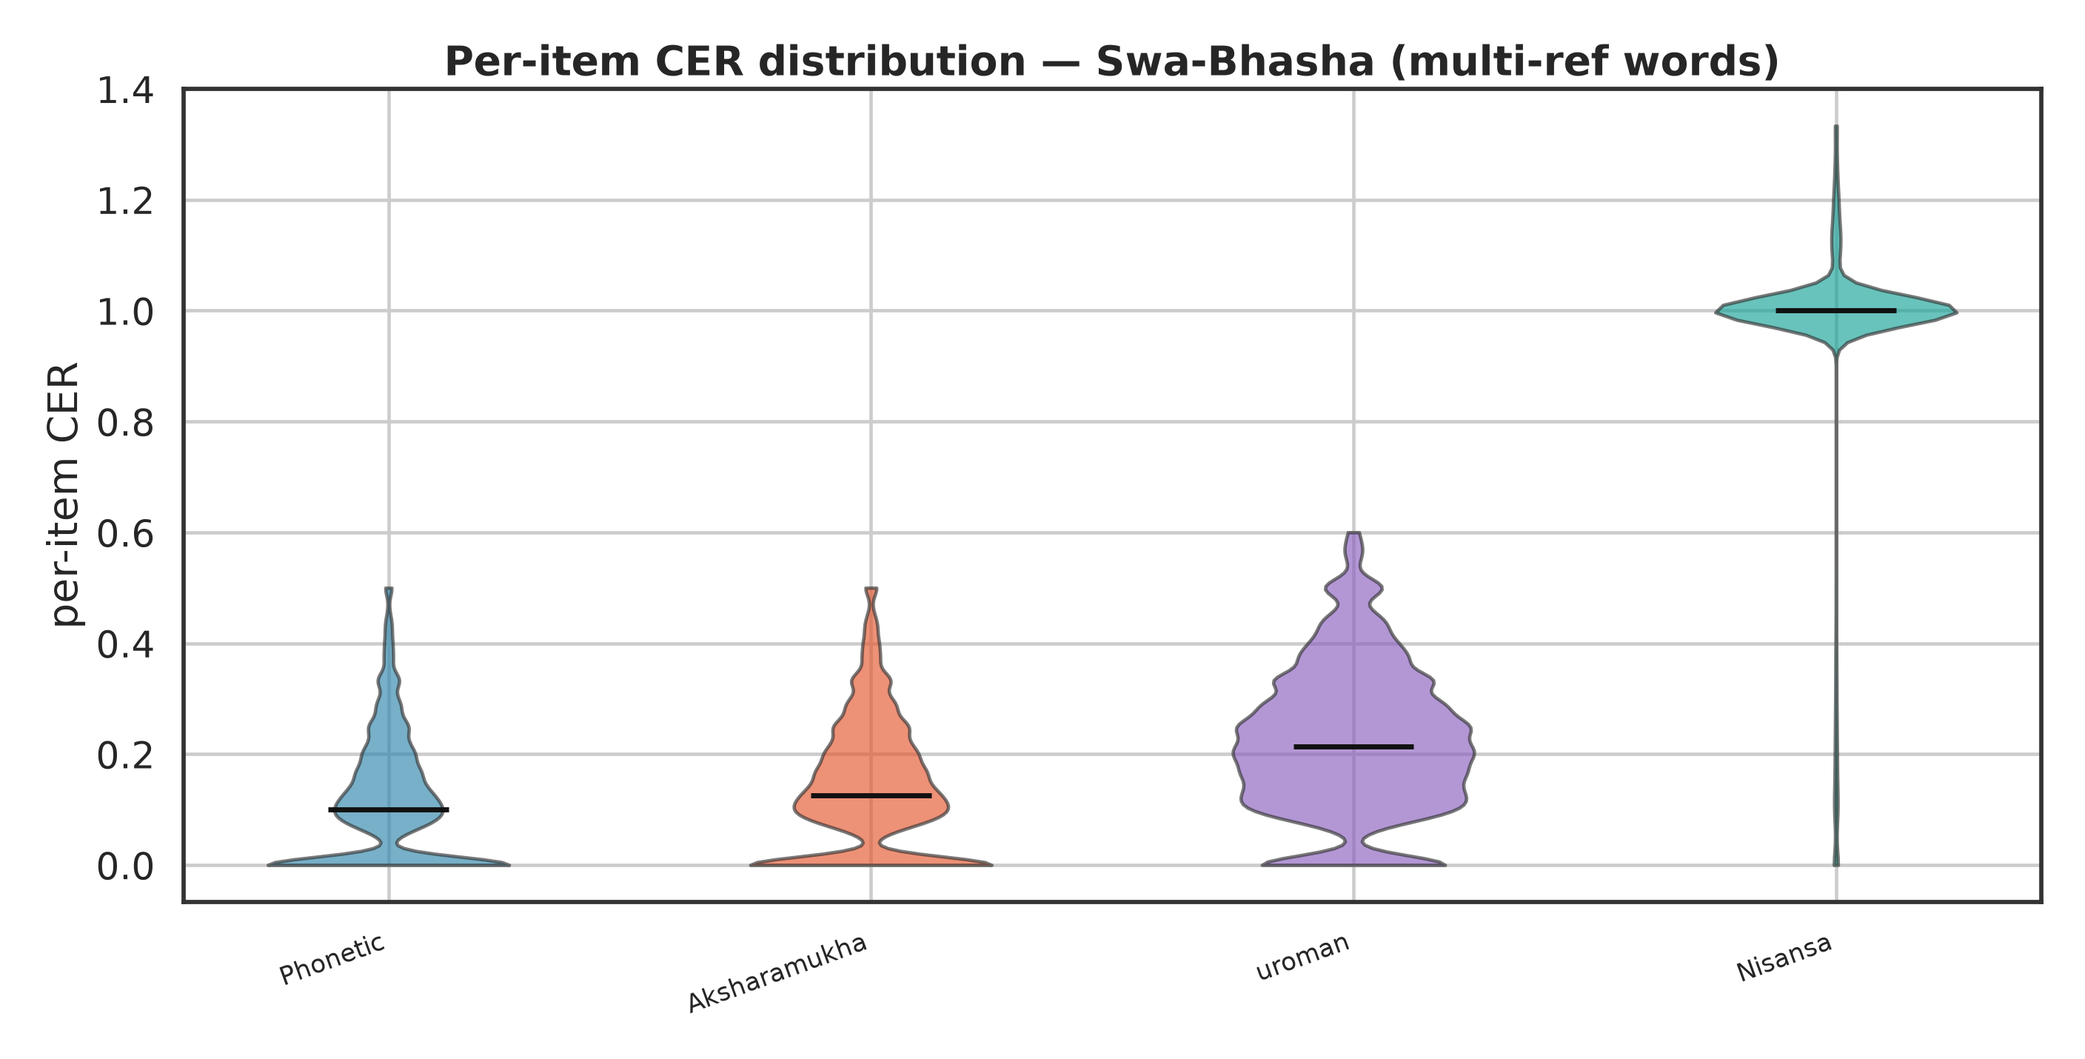
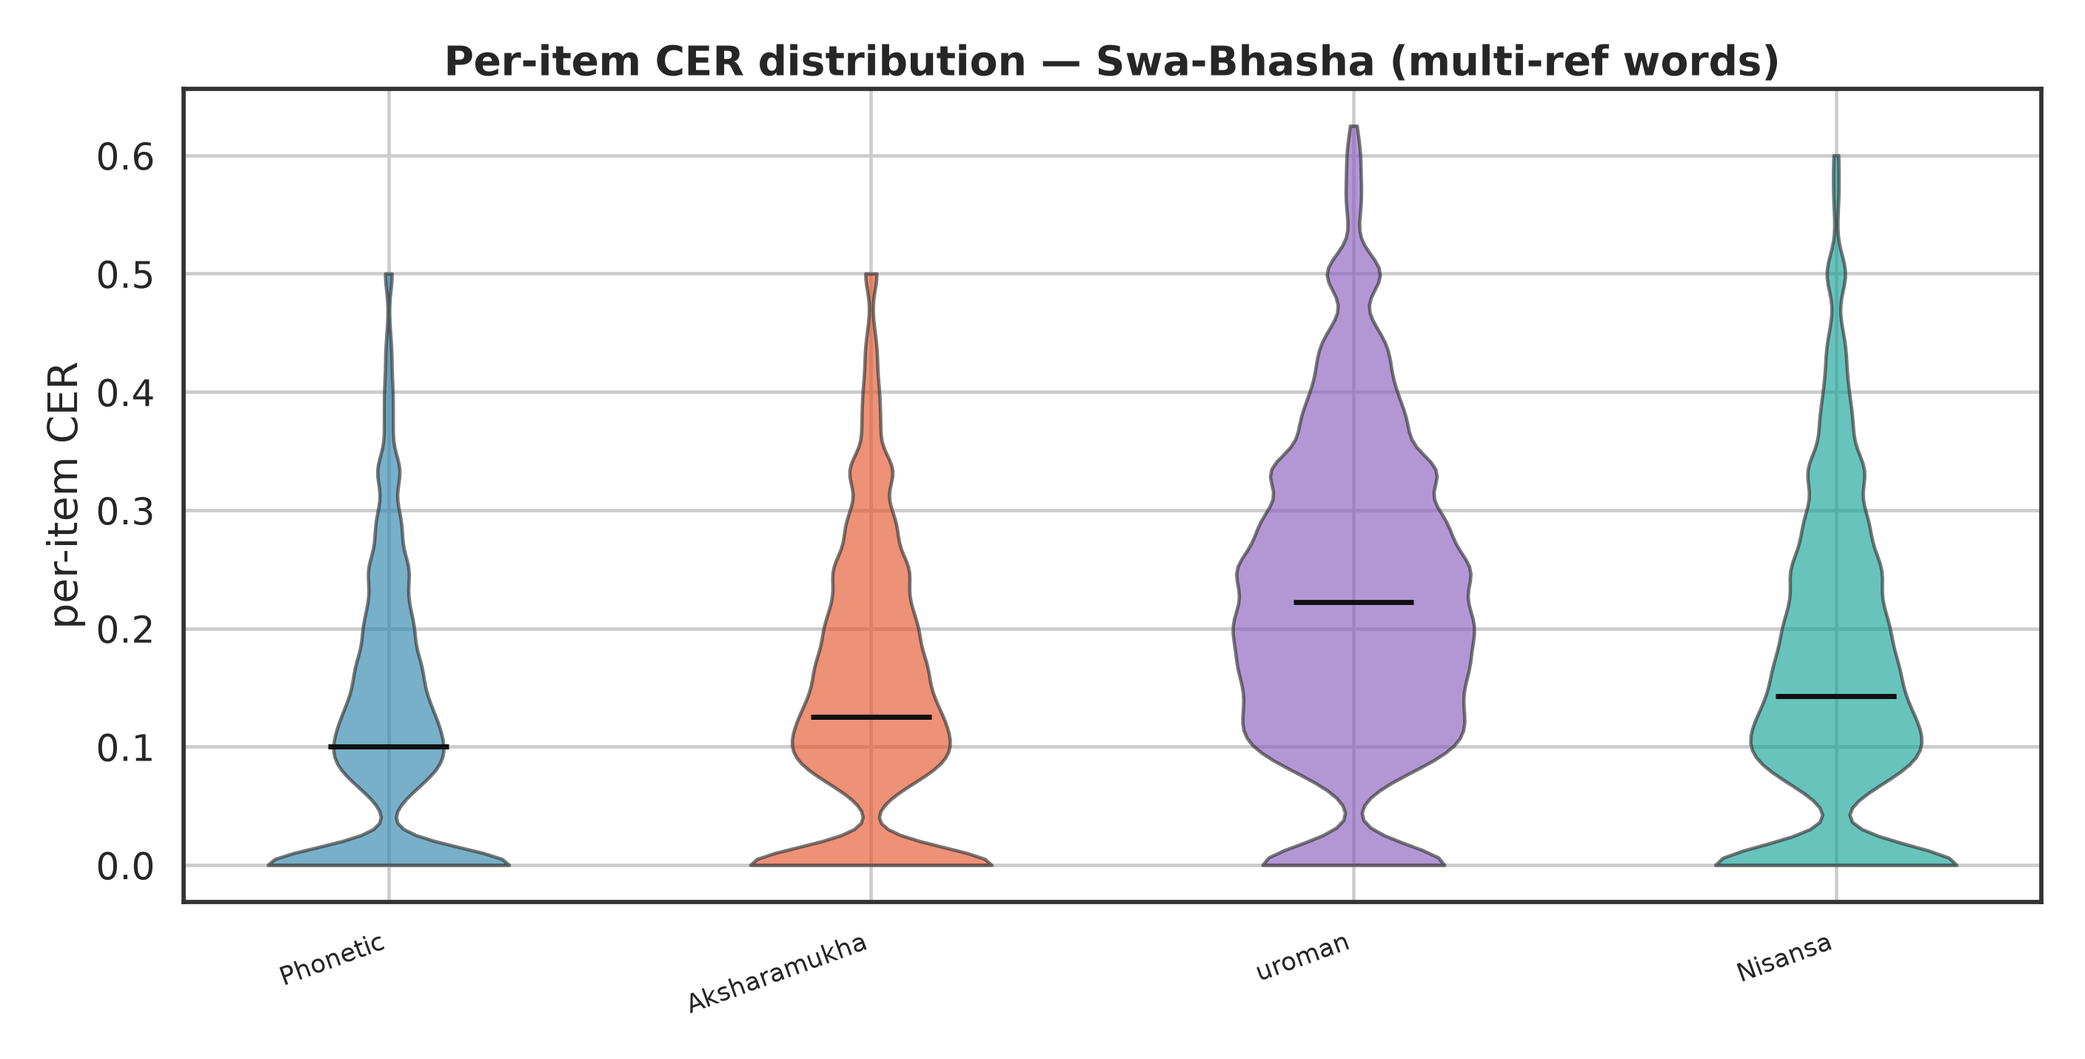
Complete Nisansa coverage of the word corpus; exclude items it cannot romanize
All 24 shards finished: 449,117 of 450,587 words romanized (99.7%). Nisansa is
now scored on the full word corpus rather than a 25k alphabetical block, so the
biased-subset caveat and the separate `nisansacov` corpus are both gone.

Nisansa on the full word set lands third: CER 0.163 vs phonetic 0.120,
aksharamukha 0.147, uroman 0.227. Phonetic still wins every corpus and metric.

The 1,470 words (0.33%) the endpoint cannot romanize are excluded from *all*
methods, so every method is scored on identical rows. Filling them in was
rejected on principle: the natural stand-in is the phonetic method, which is
itself under comparison, so its answers would inflate the score of whichever
method borrowed them. The report states this as a limitation of the tool rather
than a gap in the data.

Also widens the pre-filter: the endpoint fails on ඤ (U+0DA4) followed by
al-lakuna, ā, i or u. Probing confirms ඤ alone, ඤ+ඤ, ක+ඤ, ඤ+ka, ඤ+e and the
neighbouring letter ඥ all work, so its mapping table is missing those specific
combinations. The bisect safety net found the three extra pairs on its own,
which is what it was for.

Drops the stale claim that the endpoint is rate limited - it never was.

Changed region(s): [[0.0312, 0.1231, 0.9688, 0.8308]]

diff --git a/src/method_evaluation/generate_report.py b/src/method_evaluation/generate_report.py
@@ -79,19 +79,14 @@ def main():
 
     lines.append("Supporting points:\n")
     if ("swa_bhasha_words", "phonetic") in grid:
+        n_words = g("swa_bhasha_words", "phonetic", "n") or 0
         lines.append(
             f"- **Wins the large-scale word set decisively**: CER "
             f"{_fmt(g('swa_bhasha_words','phonetic','cer_mean'))} vs "
+            f"{_fmt(g('swa_bhasha_words','nisansa_sirs_method','cer_mean'))} (Nisansa), "
             f"{_fmt(g('swa_bhasha_words','aksharamukha','cer_mean'))} (Aksharamukha) and "
-            f"{_fmt(g('swa_bhasha_words','uroman','cer_mean'))} (uroman) across 450,587 words "
-            f"with 7.1M accepted human variants (p < 1e-300).")
-    if ("swa_bhasha_words_nisansacov", "nisansa_sirs_method") in grid:
-        lines.append(
-            f"- **Beats Nisansa on words as well**: on the 25,000-word block Nisansa was able to cover, "
-            f"CER {_fmt(g('swa_bhasha_words_nisansacov','phonetic','cer_mean'))} vs "
-            f"{_fmt(g('swa_bhasha_words_nisansacov','nisansa_sirs_method','cer_mean'))}, where Nisansa "
-            f"lands roughly level with Aksharamukha "
-            f"({_fmt(g('swa_bhasha_words_nisansacov','aksharamukha','cer_mean'))}).")
+            f"{_fmt(g('swa_bhasha_words','uroman','cer_mean'))} (uroman) across {n_words:,} words "
+            f"with 7.1M accepted human variants (p < 1e-300 against every one of them).")
     if ("social_media", "phonetic") in grid:
         lines.append(
             f"- **Wins authentic social-media text too**: CER "
@@ -105,10 +100,10 @@ def main():
         "aspiration and gemination at rates Phonetic reproduces closely (see convention table). "
         "Aksharamukha drops aspiration; uroman uses `v` and over-geminates.")
     lines.append(
-        "- **Scalable, reproducible, and free**: local and deterministic, so the whole corpus can be "
-        "regenerated offline. Nisansa depends on a single third-party university web endpoint: it is "
-        "rate-limited by the network, can change or disappear without notice, and cannot be cited as a "
-        "reproducible artifact.\n")
+        "- **Complete and reproducible**: local and deterministic, so the whole corpus can be regenerated "
+        "offline and covers every word. Nisansa is a third-party web endpoint that can change or go offline, "
+        "and it cannot romanize part of the alphabet at all (see the limitation note below), so it is both "
+        "less reproducible and less complete.\n")
     lines.append(
         "**Biggest remaining gap (all methods):** over-doubling of long vowels "
         "(~0.8/token on words vs humans' ~0.12). A trivial post-process collapsing `aa/ee/ii/oo/uu` "
@@ -164,18 +159,21 @@ def main():
         "- **Significance**: percentile bootstrap 95% CIs on mean CER and paired Wilcoxon signed-rank "
         "tests against the per-corpus best method.\n")
     lines.append(
-        "- **Nisansa coverage**: the web form romanizes free text line by line, so items can be batched "
-        "(newline-joined) rather than sent one per request. Batched output was verified identical to "
-        "one-request-per-item output, ignoring case, on all 4,253 social-media strings, and while the "
-        "endpoint cooperates this runs ~78x faster (~500 items/s vs ~3/s). It will not, however, serve "
-        "that volume for long: after roughly 25k words it began refusing most requests, and throughput "
-        "decayed to under 6 items/s at every batch size and request spacing tried (150-350 lines/request, "
-        "0.15-2 s apart), so the refusals are load-shedding on its side rather than a rate limit that "
-        "pacing can avoid. Nisansa is therefore scored on the full `social_media` corpus plus the 25,000 "
-        "words it did cover - reported separately, since that block is a contiguous alphabetical slice "
-        "rather than a random sample - and is absent from the augmented cross-check. Requests that fail "
-        "are never substituted with untranslated text; unresolved items stay out of the cache so a rerun "
-        "resumes them.\n")
+        "- **Nisansa coverage**: this method is a web form rather than a local library. It romanizes free "
+        "text line by line, so items are batched (newline-joined) instead of sent one per request, which "
+        "is ~78x faster and was verified to give output identical to one-request-per-item, ignoring case, "
+        "on all 4,253 social-media strings. It is scored on the full word corpus and the full social-media "
+        "corpus; it is absent from the augmented cross-check.\n")
+    lines.append(
+        "- **A limitation of the Nisansa tool**: it cannot romanize the letter ඤ (U+0DA4) when that letter "
+        "carries certain vowel signs - specifically followed by al-lakuna, ā, i or u. Such input returns an "
+        "empty result. Verified by direct probing: ඤ alone, ඤ+ඤ, ක+ඤ, ඤ+ka and ඤ+e all succeed, as does the "
+        "neighbouring letter ඥ (U+0DA5), so the tool's mapping table is missing those combinations rather "
+        "than the letter itself. This affects 1,470 of 450,587 words (0.33%). Those items are excluded from "
+        "**all** methods so that every method is scored on exactly the same rows; substituting another "
+        "method's output would be worse, because the natural stand-in is the phonetic method that is itself "
+        "under comparison, and its answers would inflate the score of whichever method borrowed them. The "
+        "effect either way is far below the margin between methods.\n")
 
     for corpus, rows in by_corpus.items():
         rows = sorted(rows, key=lambda r: r["cer_mean"])

diff --git a/src/method_evaluation/run_evaluation.py b/src/method_evaluation/run_evaluation.py
@@ -71,10 +71,28 @@ def paired_wilcoxon(a: np.ndarray, b: np.ndarray) -> float:
 
 def evaluate_corpus(corpus: str, methods: list[str]) -> tuple[list, dict]:
     refs, level = _load_corpus(corpus)
-    ids = list(refs)
+    all_hyps = {m: _load_hypotheses(corpus, m) for m in methods}
+    available = {m: h for m, h in all_hyps.items() if h is not None}
+
+    # Score every method on exactly the same items: those where all of them
+    # produced output. The Nisansa endpoint cannot romanize ~0.3% of the word
+    # corpus (it fails on ඤ with certain vowel signs), and scoring those as
+    # empty strings would charge it a CER of 1.0 for a tool limitation while the
+    # other methods answer normally. Substituting another method's output
+    # instead would be worse: the natural stand-in is the phonetic method, which
+    # is the one being compared against, so its answers would inflate the score
+    # of whichever method borrowed them.
+    ids = [i for i in refs if all(h.get(i) for h in available.values())]
+    dropped = len(refs) - len(ids)
+    if dropped:
+        missing = {m: sum(1 for i in refs if not h.get(i)) for m, h in available.items()}
+        print(f"  scoring {len(ids):,} of {len(refs):,} items common to all methods "
+              f"({dropped:,} excluded; no output from "
+              f"{', '.join(f'{m}: {n:,}' for m, n in missing.items() if n)})")
+
     results, per_item = [], {}
     for method in methods:
-        hyps = _load_hypotheses(corpus, method)
+        hyps = available.get(method)
         if hyps is None:
             continue
         ordered_hyps = [hyps.get(i, "") for i in ids]

diff --git a/src/method_evaluation/nisansa_batch.py b/src/method_evaluation/nisansa_batch.py
@@ -68,7 +68,20 @@ THROTTLE_S = 0.1         # polite pause between successful requests
 
 # Input the endpoint cannot process. Sending it wastes a request and takes the
 # whole batch down with it, so it is filtered client-side.
-BROKEN_SEQUENCES = ("\u0DA4\u0DCA",)     # ඤ් : nya + al-lakuna
+#
+# The endpoint fails on ඤ (U+0DA4, taaluja naasikyaya) when it carries certain
+# vowel signs. Verified by direct probing: ඤ alone, ඤ+ඤ, ක+ඤ, ඤ+ක and ඤ+e all
+# work, and the neighbouring letter ඥ (U+0DA5) is unaffected - so its lookup
+# table is simply missing these combinations rather than the letter itself.
+# This list is the pre-filter; the authoritative record of what actually failed
+# is data/reference/nisansa_shards/<corpus>/unsupported.json, populated by
+# bisecting real batches.
+BROKEN_SEQUENCES = (
+    "\u0DA4\u0DCA",   # ඤ් nya + al-lakuna
+    "\u0DA4\u0DCF",   # ඤා nya + aa
+    "\u0DA4\u0DD2",   # ඤි nya + i
+    "\u0DA4\u0DD4",   # ඤු nya + u
+)
 
 # Retries exist only for genuine transport errors (dropped connection, timeout).
 # A placeholder response is deterministic and never retried.

diff --git a/docs/method_evaluation/README.md b/docs/method_evaluation/README.md
@@ -9,17 +9,15 @@ Which of the four Sinhala->Romanized ("Singlish") methods best reproduces how pe
 | Corpus | Items | Winner by CER | Runner-up |
 |---|---|---|---|
 | Social media (authentic sentence pairs) | 4,397 | Phonetic (in-house) (0.182) | Aksharamukha (0.191) |
-| Swa-Bhasha (multi-reference words) | 450,587 | Phonetic (in-house) (0.121) | Aksharamukha (0.148) |
-| Swa-Bhasha words (25k block Nisansa could cover) | 25,000 | Phonetic (in-house) (0.136) | Aksharamukha (0.163) |
+| Swa-Bhasha (multi-reference words) | 449,117 | Phonetic (in-house) (0.120) | Aksharamukha (0.147) |
 | Augmented sentences (300k sample, cross-check) | 300,000 | Phonetic (in-house) (0.112) | Aksharamukha (0.139) |
 
 Supporting points:
 
-- **Wins the large-scale word set decisively**: CER 0.121 vs 0.148 (Aksharamukha) and 0.228 (uroman) across 450,587 words with 7.1M accepted human variants (p < 1e-300).
-- **Beats Nisansa on words as well**: on the 25,000-word block Nisansa was able to cover, CER 0.136 vs 0.166, where Nisansa lands roughly level with Aksharamukha (0.163).
+- **Wins the large-scale word set decisively**: CER 0.120 vs 0.163 (Nisansa), 0.147 (Aksharamukha) and 0.227 (uroman) across 449,117 words with 7.1M accepted human variants (p < 1e-300 against every one of them).
 - **Wins authentic social-media text too**: CER 0.182 vs Nisansa 0.197, with the highest chrF (67.8 vs 63.4). See the capitalization note below - scoring case-sensitively reverses this ranking for the wrong reason.
 - **Matches human spelling convention**: humans overwhelmingly use `w` (not `v`) and use aspiration and gemination at rates Phonetic reproduces closely (see convention table). Aksharamukha drops aspiration; uroman uses `v` and over-geminates.
-- **Scalable, reproducible, and free**: local and deterministic, so the whole corpus can be regenerated offline. Nisansa depends on a single third-party university web endpoint: it is rate-limited by the network, can change or disappear without notice, and cannot be cited as a reproducible artifact.
+- **Complete and reproducible**: local and deterministic, so the whole corpus can be regenerated offline and covers every word. Nisansa is a third-party web endpoint that can change or go offline, and it cannot romanize part of the alphabet at all (see the limitation note below), so it is both less reproducible and less complete.
 
 **Biggest remaining gap (all methods):** over-doubling of long vowels (~0.8/token on words vs humans' ~0.12). A trivial post-process collapsing `aa/ee/ii/oo/uu` would close roughly half the residual CER to human text (relaxed CER is ~1/3 of strict).
 
@@ -33,13 +31,10 @@ The Nisansa web form capitalizes the first letter of whatever text it is given (
 | Social media (authentic sentence pairs) | Aksharamukha | 0.191 | 0.225 |
 | Social media (authentic sentence pairs) | uroman | 0.228 | 0.261 |
 | Social media (authentic sentence pairs) | Nisansa web | 0.197 | 0.210 |
-| Swa-Bhasha (multi-reference words) | Phonetic (in-house) | 0.121 | 0.121 |
-| Swa-Bhasha (multi-reference words) | Aksharamukha | 0.148 | 0.148 |
-| Swa-Bhasha (multi-reference words) | uroman | 0.228 | 0.228 |
-| Swa-Bhasha words (25k block Nisansa could cover) | Phonetic (in-house) | 0.136 | 0.136 |
-| Swa-Bhasha words (25k block Nisansa could cover) | Aksharamukha | 0.163 | 0.163 |
-| Swa-Bhasha words (25k block Nisansa could cover) | uroman | 0.224 | 0.224 |
-| Swa-Bhasha words (25k block Nisansa could cover) | Nisansa web | 0.166 | 0.167 |
+| Swa-Bhasha (multi-reference words) | Phonetic (in-house) | 0.120 | 0.120 |
+| Swa-Bhasha (multi-reference words) | Aksharamukha | 0.147 | 0.147 |
+| Swa-Bhasha (multi-reference words) | uroman | 0.227 | 0.227 |
+| Swa-Bhasha (multi-reference words) | Nisansa web | 0.163 | 0.170 |
 | Augmented sentences (300k sample, cross-check) | Phonetic (in-house) | 0.112 | 0.112 |
 | Augmented sentences (300k sample, cross-check) | Aksharamukha | 0.139 | 0.139 |
 | Augmented sentences (300k sample, cross-check) | uroman | 0.210 | 0.210 |
@@ -64,7 +59,9 @@ The Nisansa web form capitalizes the first letter of whatever text it is given (
 
 - **Significance**: percentile bootstrap 95% CIs on mean CER and paired Wilcoxon signed-rank tests against the per-corpus best method.
 
-- **Nisansa coverage**: the web form romanizes free text line by line, so items can be batched (newline-joined) rather than sent one per request. Batched output was verified identical to one-request-per-item output, ignoring case, on all 4,253 social-media strings, and while the endpoint cooperates this runs ~78x faster (~500 items/s vs ~3/s). It will not, however, serve that volume for long: after roughly 25k words it began refusing most requests, and throughput decayed to under 6 items/s at every batch size and request spacing tried (150-350 lines/request, 0.15-2 s apart), so the refusals are load-shedding on its side rather than a rate limit that pacing can avoid. Nisansa is therefore scored on the full `social_media` corpus plus the 25,000 words it did cover - reported separately, since that block is a contiguous alphabetical slice rather than a random sample - and is absent from the augmented cross-check. Requests that fail are never substituted with untranslated text; unresolved items stay out of the cache so a rerun resumes them.
+- **Nisansa coverage**: this method is a web form rather than a local library. It romanizes free text line by line, so items are batched (newline-joined) instead of sent one per request, which is ~78x faster and was verified to give output identical to one-request-per-item, ignoring case, on all 4,253 social-media strings. It is scored on the full word corpus and the full social-media corpus; it is absent from the augmented cross-check.
+
+- **A limitation of the Nisansa tool**: it cannot romanize the letter ඤ (U+0DA4) when that letter carries certain vowel signs - specifically followed by al-lakuna, ā, i or u. Such input returns an empty result. Verified by direct probing: ඤ alone, ඤ+ඤ, ක+ඤ, ඤ+ka and ඤ+e all succeed, as does the neighbouring letter ඥ (U+0DA5), so the tool's mapping table is missing those combinations rather than the letter itself. This affects 1,470 of 450,587 words (0.33%). Those items are excluded from **all** methods so that every method is scored on exactly the same rows; substituting another method's output would be worse, because the natural stand-in is the phonetic method that is itself under comparison, and its answers would inflate the score of whichever method borrowed them. The effect either way is far below the margin between methods.
 
 ## Social media (authentic sentence pairs)
 
@@ -88,41 +85,23 @@ Items: 4,397. Best method by strict CER listed first.
 
 ## Swa-Bhasha (multi-reference words)
 
-Items: 450,587. Best method by strict CER listed first.
+Items: 449,117. Best method by strict CER listed first.
 
 | Method | CER | WER | chrF | chrF++ | BLEU | Exact % | Relaxed CER | Relaxed Exact % |
 |---|---|---|---|---|---|---|---|---|
-| Phonetic (in-house) | 0.121 | 0.668 | 78.7 | 64.4 | 10.6 | 33.2 | 0.040 | 74.0 |
-| Aksharamukha | 0.148 | 0.761 | 69.6 | 56.1 | 0.8 | 23.9 | 0.041 | 73.5 |
-| uroman | 0.228 | 0.903 | 51.6 | 40.4 | 6.0 | 9.7 | 0.044 | 71.6 |
+| Phonetic (in-house) | 0.120 | 0.667 | 78.8 | 64.6 | 10.6 | 33.3 | 0.039 | 74.3 |
+| Aksharamukha | 0.147 | 0.760 | 69.7 | 56.2 | 0.8 | 24.0 | 0.040 | 73.8 |
+| Nisansa web | 0.163 | 0.776 | 67.9 | 54.3 | 7.9 | 22.4 | 0.039 | 74.1 |
+| uroman | 0.227 | 0.903 | 51.7 | 40.5 | 6.1 | 9.7 | 0.044 | 71.8 |
 
 **Significance** (best = Phonetic (in-house); paired Wilcoxon on per-item CER):
 
 | Method | CER 95% CI | p vs best |
 |---|---|---|
-| Phonetic (in-house) | [0.120, 0.121] | — (best) |
+| Phonetic (in-house) | [0.120, 0.120] | — (best) |
 | Aksharamukha | [0.147, 0.148] | 0.00e+00 |
 | uroman | [0.227, 0.228] | 0.00e+00 |
-
-## Swa-Bhasha words (25k block Nisansa could cover)
-
-Items: 25,000. Best method by strict CER listed first.
-
-| Method | CER | WER | chrF | chrF++ | BLEU | Exact % | Relaxed CER | Relaxed Exact % |
-|---|---|---|---|---|---|---|---|---|
-| Phonetic (in-house) | 0.136 | 0.687 | 76.3 | 62.9 | 0.0 | 31.4 | 0.058 | 66.3 |
-| Aksharamukha | 0.163 | 0.776 | 67.3 | 54.9 | 0.0 | 22.4 | 0.059 | 66.1 |
-| Nisansa web | 0.166 | 0.753 | 67.5 | 54.5 | 0.0 | 24.7 | 0.059 | 66.1 |
-| uroman | 0.224 | 0.883 | 52.5 | 40.8 | 0.0 | 11.7 | 0.063 | 64.1 |
-
-**Significance** (best = Phonetic (in-house); paired Wilcoxon on per-item CER):
-
-| Method | CER 95% CI | p vs best |
-|---|---|---|
-| Phonetic (in-house) | [0.134, 0.138] | — (best) |
-| Aksharamukha | [0.161, 0.164] | 0.00e+00 |
-| uroman | [0.222, 0.226] | 0.00e+00 |
-| Nisansa web | [0.164, 0.168] | 0.00e+00 |
+| Nisansa web | [0.163, 0.164] | 0.00e+00 |
 
 ## Augmented sentences (300k sample, cross-check)
 
@@ -164,16 +143,7 @@ How each method's output compares to human typing on the four axes that dominate
 | Phonetic (in-house) | 0.00 | 0.81 | 0.56 | 0.12 |
 | Aksharamukha | 0.00 | 0.81 | 0.23 | 0.14 |
 | uroman | 1.00 | 0.80 | 0.00 | 0.37 |
-
-### Swa-Bhasha words (25k block Nisansa could cover)
-
-| Source | v-preference (v/(v+w)) | long-vowel/tok | aspiration/tok | gemination/tok |
-|---|---|---|---|---|
-| Human reference | 0.08 | 0.10 | 0.48 | 0.11 |
-| Phonetic (in-house) | 0.00 | 0.74 | 0.51 | 0.11 |
-| Aksharamukha | 0.00 | 0.74 | 0.17 | 0.12 |
-| uroman | 1.00 | 0.71 | 0.00 | 0.34 |
-| Nisansa web | 1.00 | 0.74 | 0.51 | 0.10 |
+| Nisansa web | 1.00 | 0.81 | 0.56 | 0.11 |
 
 ### Augmented sentences (300k sample, cross-check)
 
@@ -196,8 +166,6 @@ How each method's output compares to human typing on the four axes that dominate
 
 ![cer_distribution_swa_bhasha_words](../../results/method_evaluation/plots/cer_distribution_swa_bhasha_words.png)
 
-![cer_distribution_swa_bhasha_words_nisansacov](../../results/method_evaluation/plots/cer_distribution_swa_bhasha_words_nisansacov.png)
-
 ![exact_match](../../results/method_evaluation/plots/exact_match.png)
 
 ![heatmap_augmented_sentences_sample](../../results/method_evaluation/plots/heatmap_augmented_sentences_sample.png)
@@ -205,8 +173,6 @@ How each method's output compares to human typing on the four axes that dominate
 ![heatmap_social_media](../../results/method_evaluation/plots/heatmap_social_media.png)
 
 ![heatmap_swa_bhasha_words](../../results/method_evaluation/plots/heatmap_swa_bhasha_words.png)
-
-![heatmap_swa_bhasha_words_nisansacov](../../results/method_evaluation/plots/heatmap_swa_bhasha_words_nisansacov.png)
 
 ![quality_metrics](../../results/method_evaluation/plots/quality_metrics.png)
 
